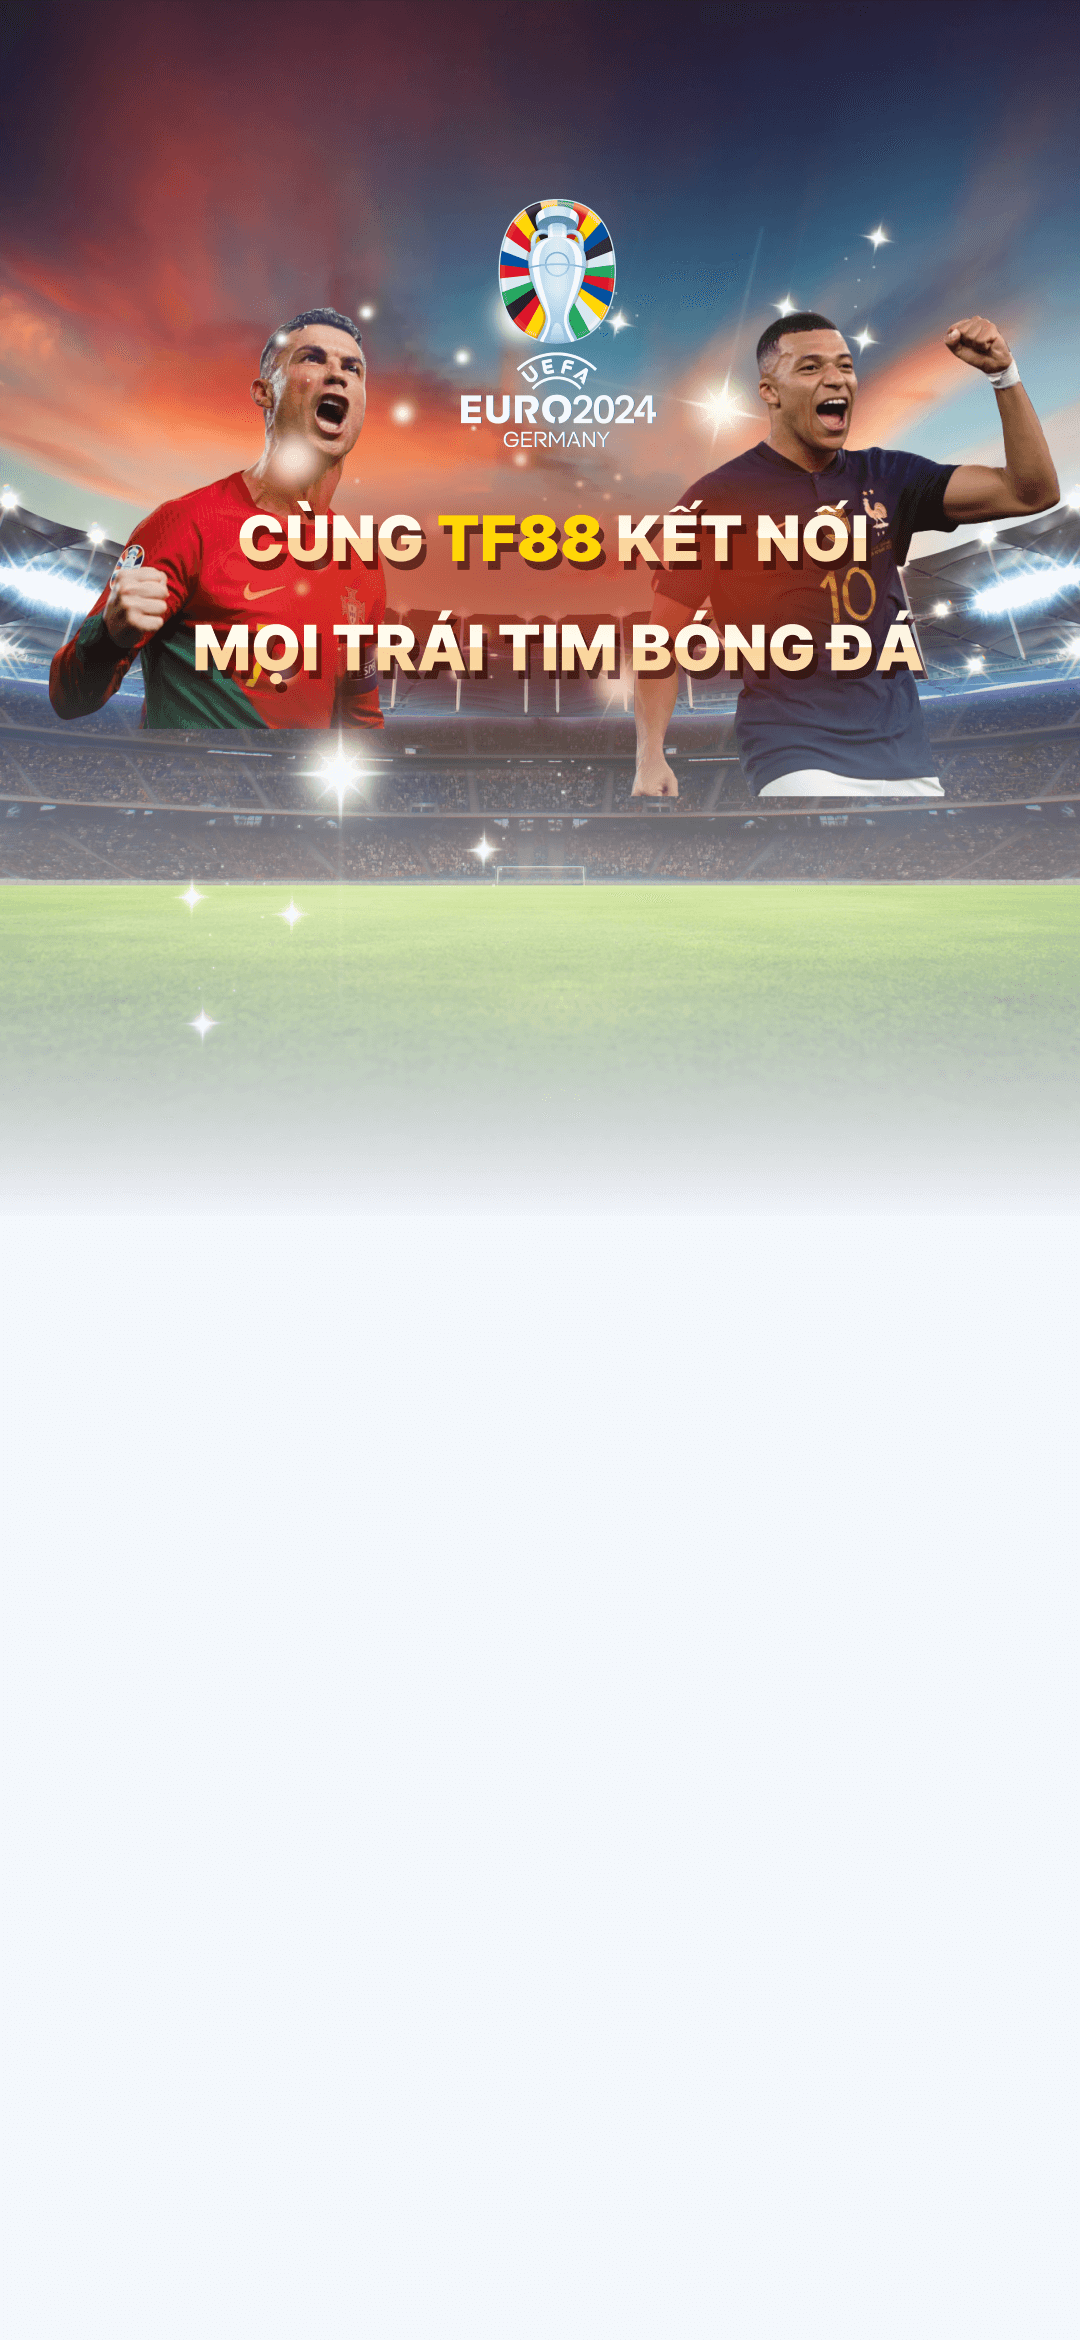
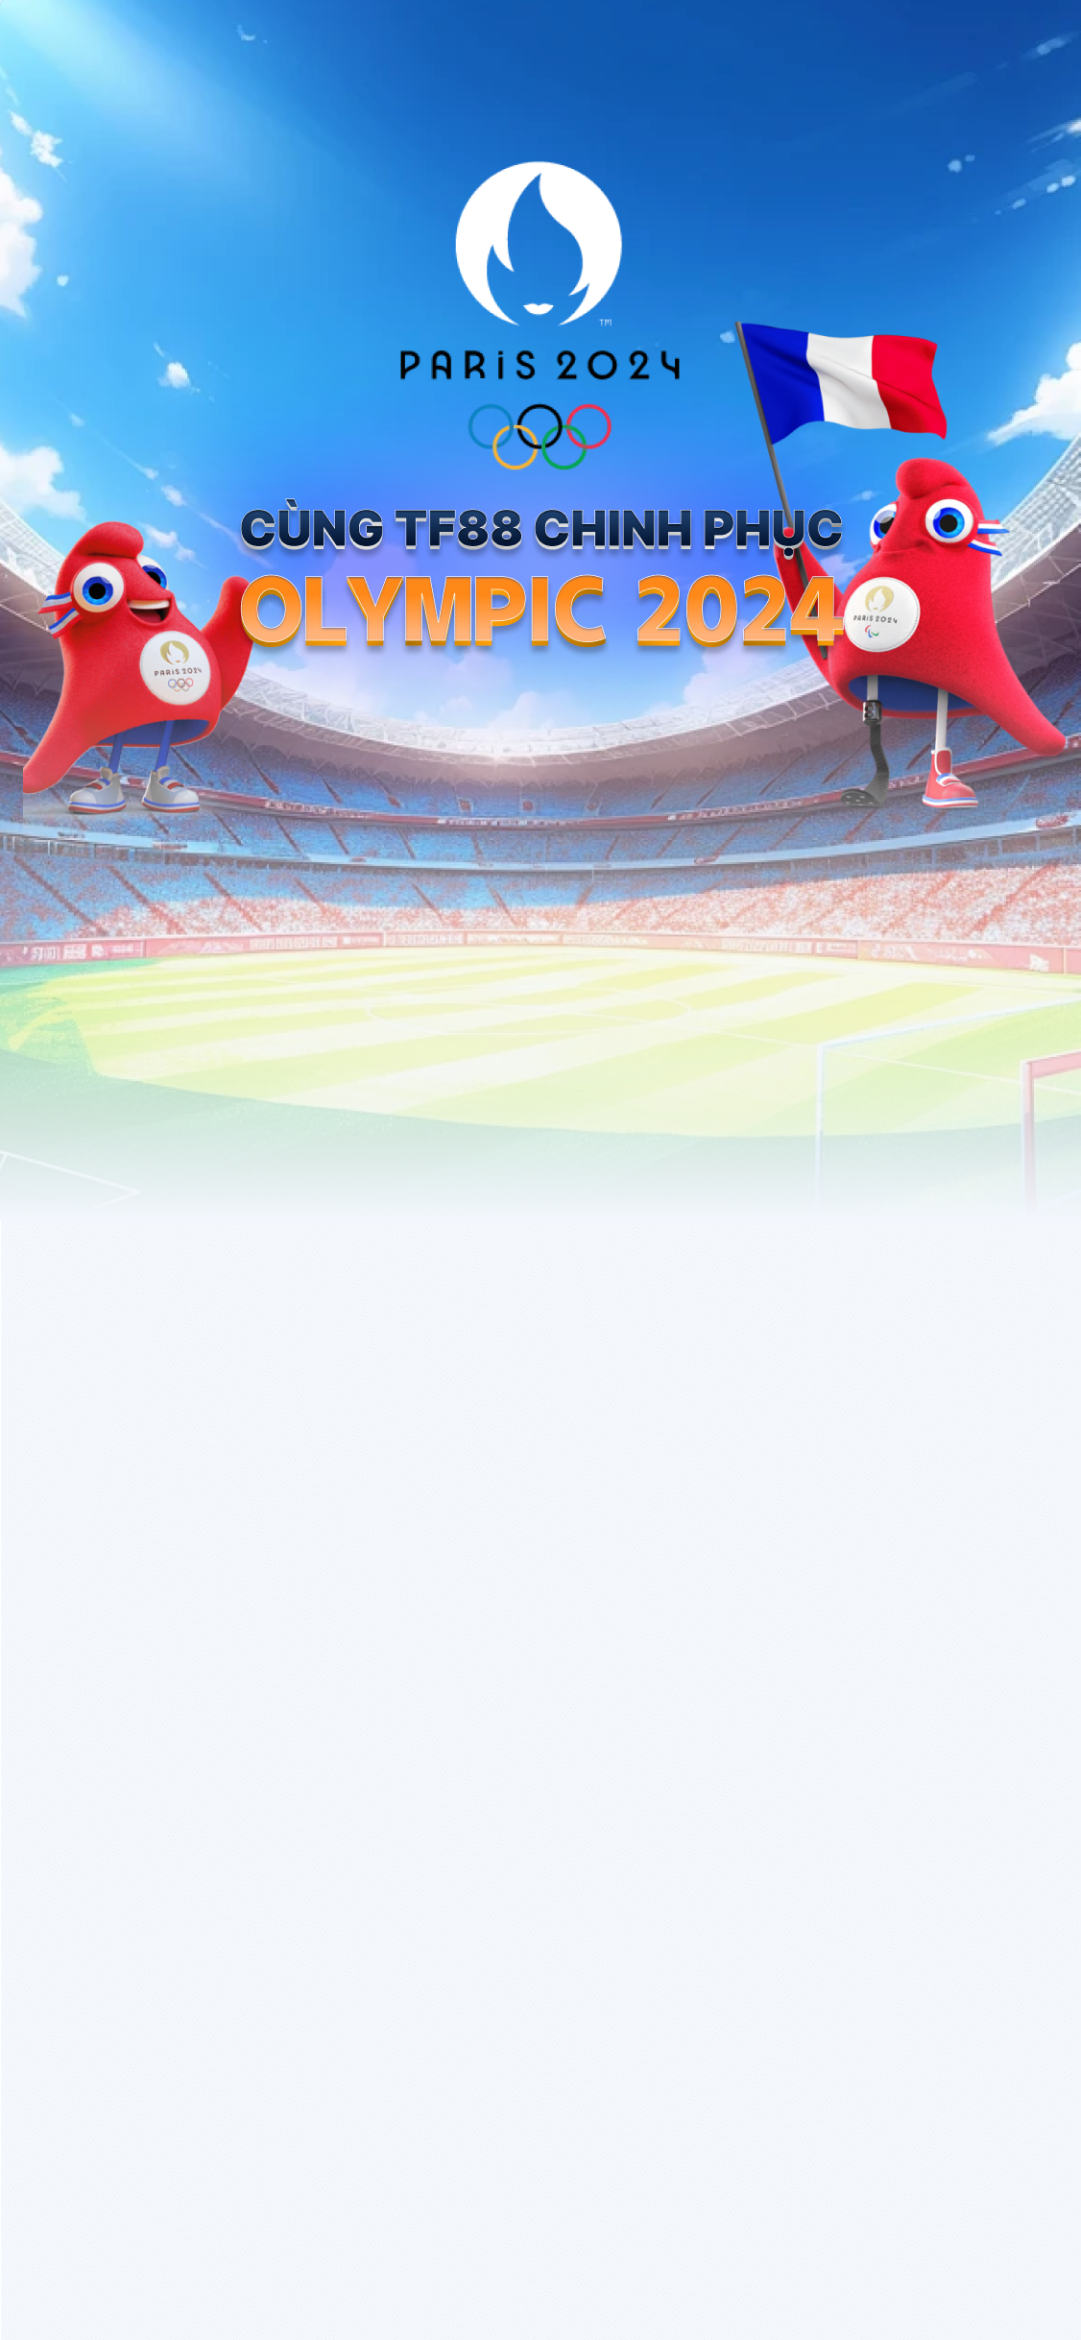
fix: [vnm] update login register img

diff --git a/vnm-static-web/src/components/layout/CommonHeader.vue b/vnm-static-web/src/components/layout/CommonHeader.vue
@@ -319,7 +319,7 @@
       <div class="acc-dialog-container login-container" :class="isLandingClub == 'tf88club' ? 'acc-dialog-landing' : '' ">
         <div class="acc-dialog-left" >
           <!-- <img :src="`${require(`../../assets/home/acc-dialog-bg-login-${languageVal}.png`)}`" width="150" /> -->
-          <img v-if="isLandingClub !== 'tf88club'" src="../../assets/home/acc-dialog-img-login-eurocup.png" />
+          <img class="paris" v-if="isLandingClub !== 'tf88club'" src="../../assets/home/acc-dialog-img-login-paris.png" />
           <img v-else  src="../../assets/home/tf88club-img.png">
         </div>
         <div class="acc-dialog-right">
@@ -345,7 +345,7 @@
       <div class="acc-dialog-container signup-container">
         <div class="acc-dialog-left">
           <!-- <img :src="`${require(`../../assets/home/acc-dialog-bg-signup-${languageVal}.png`)}`" width="150" /> -->
-          <img src="../../assets/home/acc-dialog-img-signup-eurocup.png" />
+          <img class="paris" src="../../assets/home/acc-dialog-img-signup-paris.png" />
         </div>
         <div class="acc-dialog-right">
           <RegisterAccount
@@ -409,7 +409,7 @@
       <div class="acc-dialog-container login-container">
         <div class="acc-dialog-left">
           <!-- <img :src="`${require(`../../assets/home/acc-dialog-bg-login-${languageVal}.png`)}`" width="150" /> -->
-          <img src="../../assets/home/acc-dialog-img-login-eurocup.png" />
+          <img class="paris" src="../../assets/home/acc-dialog-img-login-paris.png" />
         </div>
         <div class="acc-dialog-right">
           <div class="acc-dialog-content">
@@ -2534,8 +2534,9 @@ body {
         border-top-left-radius: 20px;
         border-bottom-left-radius: 20px;
         // background-color: #ffffff;
-        padding: 8px;
+        // padding: 8px;
 
+        padding: 0;
         img {
           display: block;
           width: 100%;
@@ -2559,7 +2560,7 @@ body {
         .acc-dialog-left {
           display: flex;
           align-items: flex-end;
-          background-image: url(../../assets/home/acc-dialog-bg-login-eurocup.png);
+          // background-image: url(../../assets/home/acc-dialog-bg-login-eurocup.png);
           background-size: 100% 100%;
           background-position: center center;
           min-height: 500px;
@@ -2570,6 +2571,9 @@ body {
             // width: 100%;
             width: calc(100% + 90px);
             margin: -50px 0px -45px -90px;
+            &.paris {
+              margin: 0;
+            }
           }
 
 
@@ -2601,7 +2605,7 @@ body {
         .acc-dialog-left {
           display: flex;
           align-items: flex-end;
-          background-image: url(../../assets/home/acc-dialog-bg-signup-eurocup.png);
+          // background-image: url(../../assets/home/acc-dialog-bg-signup-eurocup.png);
           background-size: 100% 100%;
           background-position: center center;
           // min-height: 750px;
@@ -2614,6 +2618,10 @@ body {
             // margin: -50px 0px -10px -60px;
             width: calc(80% + 70px);
             margin: -190px 0px -10px -20px;
+            &.paris {
+              width: 100%;
+              margin: 0;
+            }
           }
         }
       }
